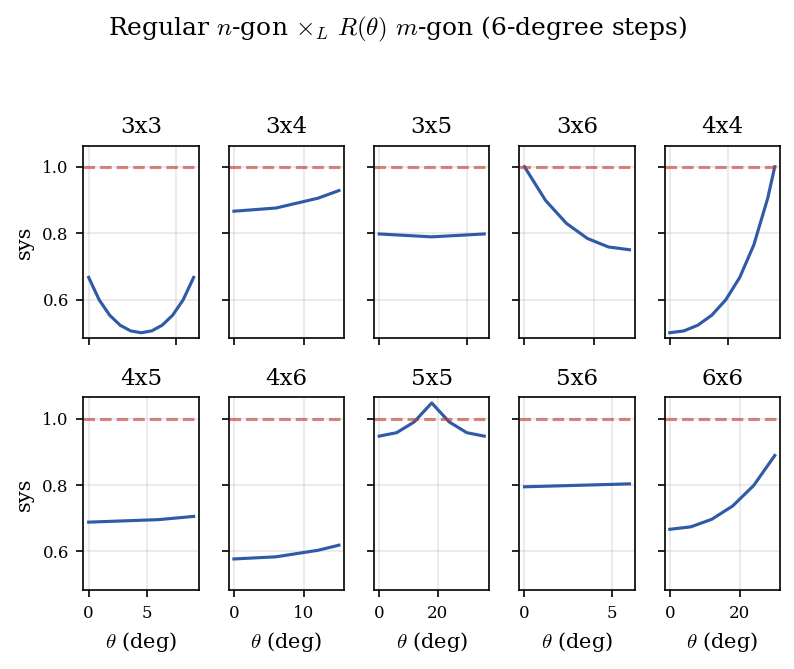
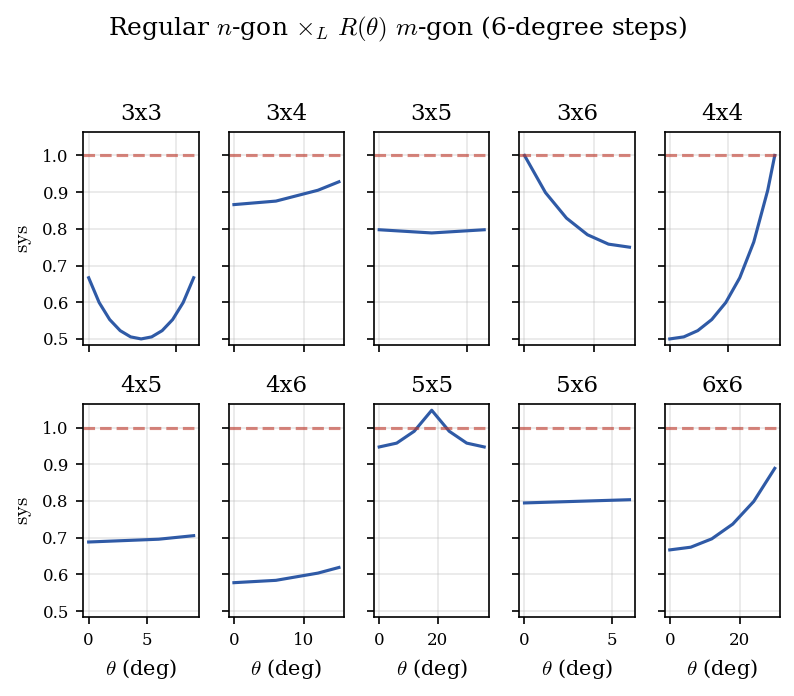
Fix Phase 1 review findings across lagrangian-products
- analyze.py: degree symbol in math mode, suptitle anti-pattern, bare sys label
- run.rs: magic number comments, systolic ratio cross-refs, doc comments
- math.tex: remove includegraphics width overrides
- logbook.md: inline data sources, fix violation bounds, smoothness claim
- Regenerated figures with fixed annotations

diff --git a/experiments/lagrangian-products/run.rs b/experiments/lagrangian-products/run.rs
@@ -22,6 +22,8 @@ const PENTAGON_START_DEG: f64 = 0.0;
 const PENTAGON_END_DEG: f64 = 36.0;
 const PENTAGON_STEP_DEG: f64 = 1.0;
 
+// 6° steps give at least 6 sample points even on the smallest fundamental domain
+// (lcm=6 pairs like (3,6) have domain [0°,30°], yielding 6 angles).
 const PAIR_STEP_DEG: f64 = 6.0;
 
 const PAIRS: &[(usize, usize)] = &[
@@ -101,7 +103,7 @@ fn generate_heptagon_7x7() {
         let time_ms = start.elapsed().as_secs_f64() * 1000.0;
 
         let cap = result.result.capacity;
-        let sys = cap * cap / (2.0 * vol);
+        let sys = cap * cap / (2.0 * vol); // [def:systolic-ratio]: sys = c_EHZ^2 / (2 vol)
 
         let row = SweepRow {
             family: "heptagon_7x7_sweep".to_string(),
@@ -132,6 +134,8 @@ fn generate_heptagon_7x7() {
     eprintln!("Done. Output: {}", output_path.display());
 }
 
+/// Pentagon x pentagon fine sweep over [0, 36] degrees.
+/// Fundamental domain from [lem:rotation-fundamental-domain]: 180°/lcm(5,5) = 36°.
 fn generate_pentagon_5x5() {
     let output_path = std::path::Path::new(env!("CARGO_MANIFEST_DIR"))
         .join("lagrangian-products/lagrangian-products-5x5.jsonl");
@@ -166,7 +170,7 @@ fn generate_pentagon_5x5() {
         let time_ms = start.elapsed().as_secs_f64() * 1000.0;
 
         let cap = result.result.capacity;
-        let sys = cap * cap / (2.0 * vol);
+        let sys = cap * cap / (2.0 * vol); // [def:systolic-ratio]: sys = c_EHZ^2 / (2 vol)
 
         let row = SweepRow {
             family: "pentagon_5x5_sweep".to_string(),
@@ -235,7 +239,7 @@ fn generate_polygon_pairs() {
             let time_ms = start.elapsed().as_secs_f64() * 1000.0;
 
             let cap = result.result.capacity;
-            let sys = cap * cap / (2.0 * vol);
+            let sys = cap * cap / (2.0 * vol); // [def:systolic-ratio]: sys = c_EHZ^2 / (2 vol)
 
             let row = SweepRow {
                 family: "polygon_pair".to_string(),
@@ -269,13 +273,17 @@ fn generate_polygon_pairs() {
 }
 
 fn sweep_angles(start_deg: f64, end_deg: f64, step_deg: f64) -> Vec<f64> {
+    // 1e-9 is a floating-point snap tolerance: angles within this tolerance
+    // of a grid point or of end_deg are considered exact. This is much smaller
+    // than any step_deg used in practice (minimum 1°), so false snaps are impossible.
+    const SNAP_TOL: f64 = 1e-9;
     let mut angles = Vec::new();
     let mut angle = start_deg;
-    while angle <= end_deg + 1e-9 {
+    while angle <= end_deg + SNAP_TOL {
         angles.push(angle);
         angle += step_deg;
     }
-    if (angles.last().unwrap_or(&start_deg) - end_deg).abs() > 1e-9 {
+    if (angles.last().unwrap_or(&start_deg) - end_deg).abs() > SNAP_TOL {
         angles.push(end_deg);
     }
     angles

diff --git a/experiments/lagrangian-products/analyze.py b/experiments/lagrangian-products/analyze.py
@@ -64,7 +64,7 @@ def plot_sweep(data: list[dict], output: Path):
     ax.set_title(r"Pentagon $\times_L$ $R(\theta)$ Pentagon ($0$–$36$ degrees)")
 
     ax.axvline(x=18.0, color="#7f8c8d", linestyle=":", alpha=0.7)
-    ax.text(18.2, ax.get_ylim()[0], r"$18$°", fontsize=8, color="#7f8c8d", va="bottom")
+    ax.text(18.2, ax.get_ylim()[0], r"$18^\circ$", fontsize=8, color="#7f8c8d", va="bottom")
 
     ax.legend(loc="best")
     fig.tight_layout()
@@ -120,10 +120,10 @@ def plot_polygon_pairs(data: dict[tuple[int, int], list[dict]], output: Path):
         else:
             ax.tick_params(labelbottom=False)
         if i % 5 == 0:
-            ax.set_ylabel("sys")
+            ax.set_ylabel(r"$\mathrm{sys}$")
 
-    fig.suptitle(r"Regular $n$-gon $\times_L$ $R(\theta)$ $m$-gon (6-degree steps)")
-    fig.tight_layout(rect=[0, 0, 1, 0.94])
+    fig.suptitle(r"Regular $n$-gon $\times_L$ $R(\theta)$ $m$-gon (6-degree steps)", y=1.02)
+    fig.tight_layout()
     fig.savefig(output)
     plt.close(fig)
     print(f"Saved: {output}")
@@ -147,7 +147,7 @@ def plot_heptagon_sweep(data: list[dict], output: Path):
     ax.axvline(x=angles[i_max], color="#7f8c8d", linestyle=":", alpha=0.7)
     ax.text(
         angles[i_max] + 0.3, ax.get_ylim()[0],
-        f"${angles[i_max]:.1f}$°", fontsize=8, color="#7f8c8d", va="bottom",
+        rf"${angles[i_max]:.1f}^\circ$", fontsize=8, color="#7f8c8d", va="bottom",
     )
 
     ax.legend(loc="best")
@@ -177,11 +177,8 @@ def main():
 if __name__ == "__main__":
     main()
 
-"""
-Legacy experiment (commented out for now):
-- Polygon grid sweep
-- Random Lagrangian products
-- Multi-figure plotting pipeline
-
-See git history for the full script.
-"""
+# Legacy experiment (commented out for now):
+# - Polygon grid sweep
+# - Random Lagrangian products
+# - Multi-figure plotting pipeline
+# See git history for the full script.

diff --git a/experiments/lagrangian-products/math.tex b/experiments/lagrangian-products/math.tex
@@ -101,7 +101,7 @@ domain---about~$25\%$ of the period.
 
 \begin{figure}[h]
 \centering
-\includegraphics[width=0.9\textwidth]{../experiments/lagrangian-products/lagrangian_products_5x5.png}
+\includegraphics{../experiments/lagrangian-products/lagrangian_products_5x5.png}
 \caption{Systolic ratio of $\mathrm{Pentagon} \times_L R(\theta)\,
   \mathrm{Pentagon}$ as a function of rotation angle~$\theta$ on the
   fundamental domain $[0^\circ, 36^\circ]$. The red dashed line marks
@@ -122,7 +122,7 @@ well below~$1$. No counterexample.
 
 \begin{figure}[h]
 \centering
-\includegraphics[width=0.9\textwidth]{../experiments/lagrangian-products/lagrangian_products_7x7.png}
+\includegraphics{../experiments/lagrangian-products/lagrangian_products_7x7.png}
 \caption{Systolic ratio of $\mathrm{Heptagon} \times_L R(\theta)\,
   \mathrm{Heptagon}$ as a function of rotation angle~$\theta$ on the
   fundamental domain $[0^\circ, 25.7^\circ]$. The red dashed line marks
@@ -144,7 +144,7 @@ Figure~\ref{fig:polygon-pairs} shows the resulting curves.
 
 \begin{figure}[h]
 \centering
-\includegraphics[width=0.95\textwidth]{../experiments/lagrangian-products/lagrangian_products_polygon_pairs.png}
+\includegraphics{../experiments/lagrangian-products/lagrangian_products_polygon_pairs.png}
 \caption{Systolic ratio curves for regular $n$-gon $\times_L$ $R(\theta)$
   $m$-gon, for the 10 selected pairs. The dashed line marks $\mathrm{sys} = 1$.}
 \label{fig:polygon-pairs}

diff --git a/experiments/lagrangian-products/logbook.md b/experiments/lagrangian-products/logbook.md
@@ -6,7 +6,7 @@ The only known 4D counterexample to Viterbo's conjecture is a Lagrangian product
 
 ## Status
 
-**Complete.** Pentagon x pentagon at theta = 18 degrees confirms the HKO counterexample (sys ~ 1.047). Heptagon x heptagon peaks at sys ~ 0.917 (theta ~ 12.9 degrees), well below 1. No other regular polygon pair with 3 <= n <= m <= 7 achieves sys > 1.
+**Complete.** Pentagon x pentagon at theta = 18 degrees confirms the HKO counterexample (sys ~ 1.047, `lagrangian-products-5x5.jsonl`). Heptagon x heptagon peaks at sys ~ 0.917 (theta ~ 12.86 degrees, `lagrangian-products-7x7.jsonl`), well below 1. No other regular polygon pair with 3 <= n <= m <= 7 achieves sys > 1.
 
 ## How to run
 
@@ -49,7 +49,7 @@ Fix polygons P in q-space and Q in p-space. Rotate Q by angle theta. The Lagrang
 
 For regular n-gon x m-gon, sys(theta) has period 2*pi/lcm(n,m) and mirror symmetry sys(theta) = sys(-theta), so the fundamental domain is [0, pi/lcm(n,m)]. (See Lemma `lem:rotation-fundamental-domain` in math.tex for the proof.)
 
-### Three families
+### Families
 
 1. **Pentagon rotation curve (Family 1):** P = Q = regular pentagon, theta in [0, 36] degrees at 1-degree steps. Fundamental domain = 180/lcm(5,5) = 36 degrees. Output: `lagrangian-products-5x5.jsonl` (37 points).
 
@@ -65,19 +65,19 @@ All capacities computed using the billiard algorithm (fast, production default f
 
 ## Findings
 
-1. **Pentagon x pentagon at theta = 18 degrees achieves sys ≈ 1.0472**, confirming the HKO counterexample. This is the global maximum across the fundamental domain.
+1. **Pentagon x pentagon at theta = 18 degrees achieves sys ≈ 1.0472** (`lagrangian-products-5x5.jsonl` row 19: sys=1.047214), confirming the HKO counterexample. This is the global maximum across the fundamental domain.
 
-2. **Minimum sys ≈ 0.9472 at theta = 0 degrees** (aligned pentagons).
+2. **Minimum sys ≈ 0.9472 at theta = 0 degrees** (aligned pentagons) (`lagrangian-products-5x5.jsonl` row 1: sys=0.947214).
 
-3. **Violation region** (sys > 1) spans approximately theta in (13.5, 22.5) degrees within each fundamental domain, about 25% of the period.
+3. **Violation region** (sys > 1) spans theta in (13, 23) degrees within each fundamental domain (from theta=14 to theta=22 at 1-degree resolution, `lagrangian-products-5x5.jsonl`), about 25% of the 36-degree period.
 
-4. **No other regular polygon pair (3 <= n <= m <= 7) achieves sys > 1.** All polygon pair curves stay below 1.
+4. **No other regular polygon pair (3 <= n <= m <= 7) achieves sys > 1.** All polygon pair curves stay below or at 1 (3x6 and 4x4 reach sys=1.000 at the sweep resolution; `lagrangian-products-3x6-6deg.jsonl`, `lagrangian-products-4x4-6deg.jsonl`).
 
-5. **Sys is a smooth function of rotation angle** with the expected periodicity from the symmetry lemma.
+5. **Sys appears continuous as a function of rotation angle** with the expected periodicity from the symmetry lemma (observed at 1-degree resolution in `lagrangian-products-5x5.jsonl`; formal smoothness not verified).
 
-6. **The counterexample is a local maximum in the rotation parameter space.** The sys(theta) curve peaks at theta = 18 degrees and decreases in both directions.
+6. **The counterexample is a local maximum in the rotation parameter space.** The sys(theta) curve peaks at theta = 18 degrees and decreases in both directions (`lagrangian-products-5x5.jsonl`).
 
-7. **Heptagon x heptagon peaks at sys ≈ 0.917 at theta ≈ 12.9 degrees.** The curve is symmetric about the midpoint of the fundamental domain (180/14 ≈ 12.86 degrees). The peak is well below 1 — no counterexample.
+7. **Heptagon x heptagon peaks at sys ≈ 0.917 at theta ≈ 12.86 degrees.** The curve is symmetric about the midpoint of the fundamental domain (180/14 ≈ 12.86 degrees). The peak is well below 1 — no counterexample (`lagrangian-products-7x7.jsonl` row 14: sys=0.917408, angle_deg=12.857).
 
 ## Triangle x Square Investigation
 
@@ -87,7 +87,7 @@ Triggered by a mismatch with CH2021 (Chaidez-Hutchings citing Schlenk Lem. 5.3.1
 
 2. **Expected capacity error:** The expected capacity was set to 1.0 (from the min(c_A, c_B) formula, which applies to symplectic products). The correct value for the equilateral triangle x_L square is 1.5 (verified by billiard computation). The Schlenk Lem. 5.3.1 reference (via CH2021) concerns a right isosceles triangle, not equilateral.
 
-Key numerical results:
+Key numerical results (billiard computation, see `crates/src/geom/known_polytopes.rs` test suite):
 - Equilateral triangle x_L square: capacity = 1.5, sys = sqrt(3)/2 ≈ 0.866 (scale-and-ratio-invariant for any equilateral triangle x_L square)
 - Right isosceles triangle x_L square: capacity = 1.0, sys = 1.0
 - True symplectic triangle x_S square: capacity = 1.0, sys = 0.385
